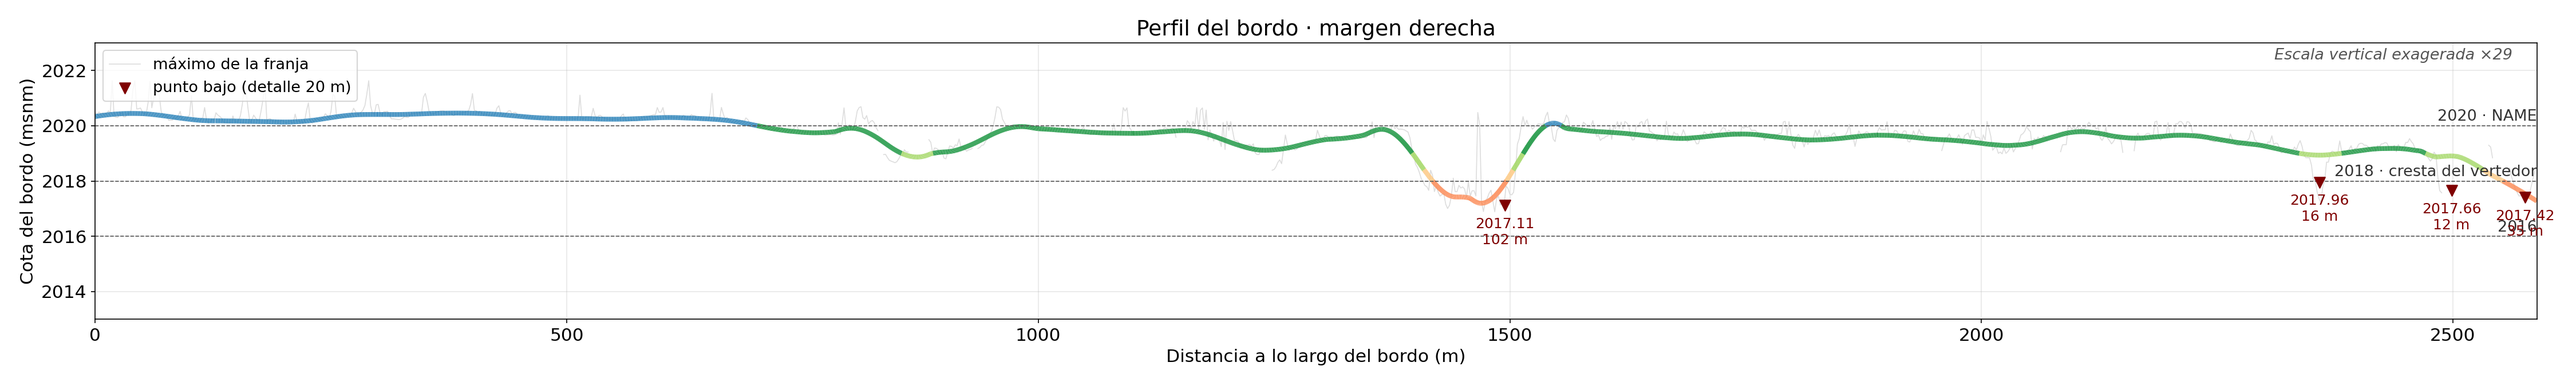
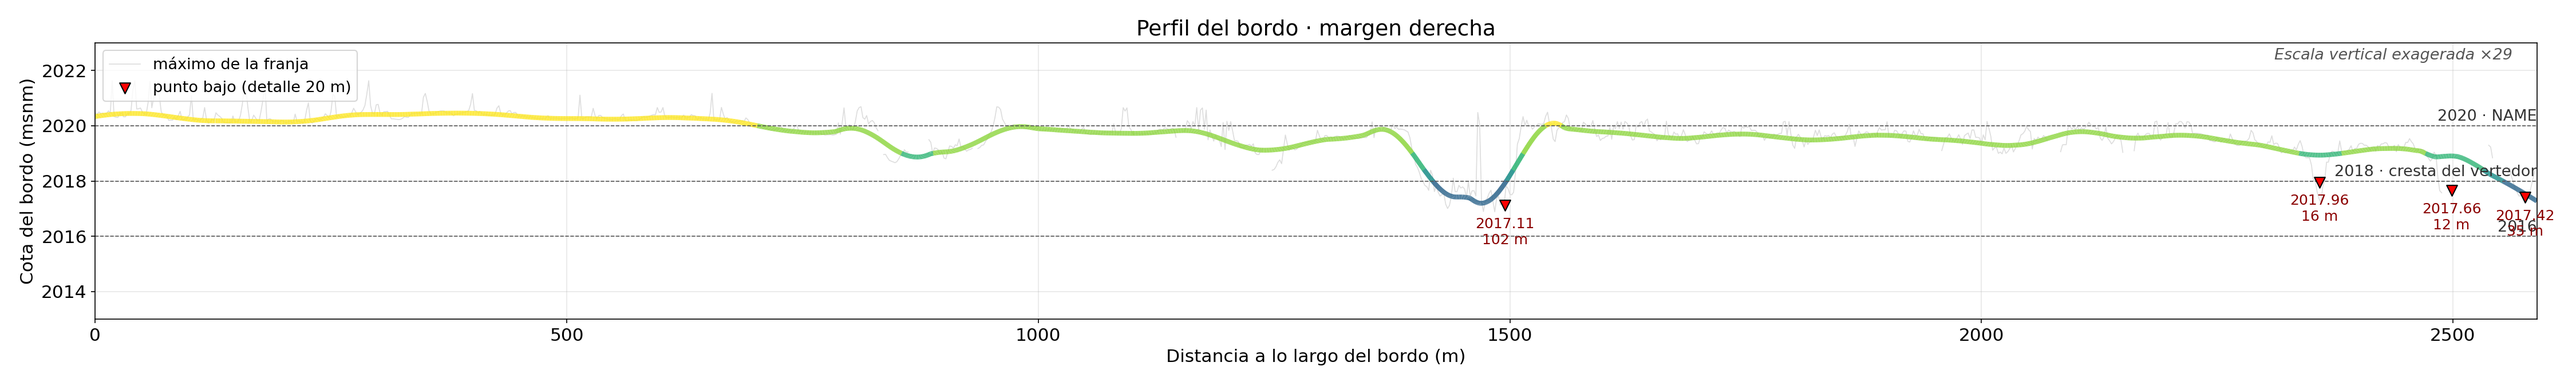
Perfiles con colores viridis

diff --git a/bordo_analisis.py b/bordo_analisis.py
@@ -28,14 +28,14 @@ NDVI_ARBOL = 0.4                    # Sentinel-2
 ALTURA_ARBOL = 2.0                  # m, dosel de Meta
 OBSTACULO = {0: "no", 1: "árbol", 2: "edificio"}
 MESES = ["ene", "feb", "mar", "abr", "may", "jun", "jul", "ago", "sep", "oct", "nov", "dic"]
-CLASES = [  # (desde, hasta, etiqueta, color)
-    (1990.0, 2016.0, "< 2016 · > 57% del tiempo", "#7f0000"),
-    (2016.0, 2017.0, "2016–2017 · 46–57%", "#d7301f"),
-    (2017.0, 2018.0, "2017–2018 · 23–46%", "#fc8d59"),
-    (2018.0, 2018.4, "2018–2018.4 · 3–23%", "#fdcc8a"),
-    (2018.4, 2019.0, "2018.4–2019 · < 3%", "#a6d96a"),
-    (2019.0, 2020.0, "2019–2020 · < 0.03%", "#1a9641"),
-    (2020.0, 2100.0, "≥ 2020 · NAME", "#2b83ba"),
+CLASES = [  # (desde, hasta, etiqueta, color viridis)
+    (1990.0, 2016.0, "< 2016 · > 57% del tiempo", "#440154"),
+    (2016.0, 2017.0, "2016–2017 · 46–57%", "#443983"),
+    (2017.0, 2018.0, "2017–2018 · 23–46%", "#31688e"),
+    (2018.0, 2018.4, "2018–2018.4 · 3–23%", "#21918c"),
+    (2018.4, 2019.0, "2018.4–2019 · < 3%", "#35b779"),
+    (2019.0, 2020.0, "2019–2020 · < 0.03%", "#90d743"),
+    (2020.0, 2100.0, "≥ 2020 · NAME", "#fde725"),
 ]
 
 
@@ -102,11 +102,11 @@ def graficar(titulo, dist, z_crudo, z_filt, bajos, ruta):
     ax.set_title(titulo)
     ax.grid(alpha=0.3)
     if bajos:
-        ax.scatter([d for d, _, _ in bajos], [v for _, v, _ in bajos], marker="v", s=80, c="#7f0000", zorder=5,
+        ax.scatter([d for d, _, _ in bajos], [v for _, v, _ in bajos], marker="v", s=80, c="red", edgecolors="k", zorder=5,
                    label="punto bajo (detalle 20 m)")
         for d, v, largo in bajos:
             ax.annotate(f"{v:.2f}\n{largo:.0f} m", (d, v), xytext=(0, -10), textcoords="offset points",
-                        ha="center", va="top", fontsize=12, color="#7f0000")
+                        ha="center", va="top", fontsize=12, color="darkred")
     ax.legend(loc="upper left", fontsize=13)
     fig.tight_layout()
     bb = ax.get_window_extent().transformed(fig.dpi_scale_trans.inverted())
